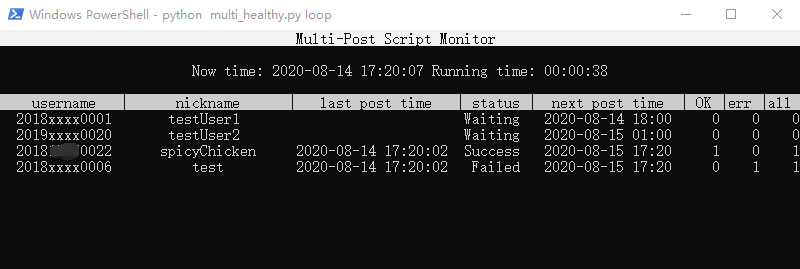
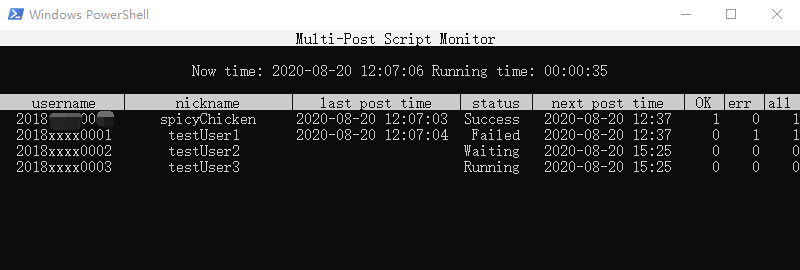
修改了下源代码, 版本更新为1.0.3, 无重大更新

diff --git a/multi_healthy.py b/multi_healthy.py
@@ -2,11 +2,11 @@
 
 import time, os, inspect, random, threading, sys, json, copy
 
-__file_version__ = "1.0.2"
-__file_version_tuple__ = (1, 0, 2)
+__file_version__ = "1.0.3"
+__file_version_tuple__ = (1, 0, 3)
 __license__ = "MIT"
 __author__ = "Happy-Rabbit"
-__last_update_date__ = "2020/08/19"
+__last_update_date__ = "2020/08/20"
 
 username    :str    =   ''
 password    :str    =   ''
@@ -18,6 +18,7 @@ userData    :dict   =   {"username":    username,
                          'lt':          '',
                          'execution':   ''}
 userDataList:list   =   []
+retryList   :list   =   []
 
 configFormat:dict   =   {"username":    '',
                          "password":    '',
@@ -291,7 +292,7 @@ class AutoLogin():
             return self.run(retry - 1)
         except Exception as e:
             warn(repr(e))
-            if retry < 0:
+            if retry == 0:
                 error("Max Retried times!")
                 return False
             warn("Retry times: {}".format(3 - retry + 1))
@@ -317,6 +318,7 @@ class UserClass():
             self.postTime.sort()
             self.timecost = 0
             self.lastResult = ''
+            self.nextTime = ''
             
         except Exception as e:
             error(repr(e))
@@ -324,15 +326,16 @@ class UserClass():
             exit(0)
     
     def status(self) -> str:
+        if self.runLock:
+            return "Running"
         if self.lastResult:
             return self.lastResult
         else:
-            if self.runLock:
-                return "Running"
-            else:
-                return "Waiting"
+            return "Waiting"
     
     def getNextTime(self):
+        if self.nextTime != '':
+            return self.nextTime
         for i in self.postTime:
             if time.strftime("%H:%M", time.localtime()) < i:
                 return time.strftime("%Y-%m-%d ", time.localtime()) + i
@@ -476,16 +479,25 @@ def echoInfo(stdscr):
         error(repr(e))
 
 def runAll(targetList: list) -> None:
+    global retryList
     try:
         for i in targetList:
-            i.run()
+            result = i.run()
+            if not result:
+                i.nextTime = time.strftime("%Y-%m-%d %H:%M", time.localtime(time.time() + 30 * 60))
+                retryList.append((time.strftime("%H:%M", time.localtime(time.time() + 30 * 60)), i))
+                continue
+            i.nextTime = ''
     except Exception as e:
         error(repr(e))
 
 def timeManager():
-    global userDataList
+    global userDataList, retryList
     timeList = []
+    retryTimes = []
+    retryDict = {}
     last = ''
+    retryLast = ''
     for i in userDataList:
         for j in i.postTime:
             timeList.append(j)
@@ -496,6 +508,14 @@ def timeManager():
             timeDict[j].append(i)
     while True:
         now = time.strftime("%H:%M", time.localtime())
+        if retryList:
+            retryTimes = list(set(i[0] for i in retryList))
+            retryDict = {i:[j[1] for j in retryList if j[0] == i] for i in retryTimes}
+        if now in retryDict.keys() and now != retryLast:
+            retryLast = now
+            thread = threading.Thread(target=runAll, args=(retryDict[now], ))
+            thread.setDaemon(True)
+            thread.start()
         if now in timeDict.keys() and now != last:
             last = now
             thread = threading.Thread(target=runAll, args=(timeDict[now], ))

diff --git a/versions.md b/versions.md
@@ -1,16 +1,35 @@
 ## 版本信息
 
-### 当前最新版本为 1.0.2
+### 当前最新版本为 1.0.3
 
 [![](https://img.shields.io/badge/-return%20to%20README.md-blueviolet)](README.md "返回README.md")
+
+### 1.0.3 更新内容
+
+项目 |内容
+:--: |:--:
+更新日期 | 2020年8月20日
+是否有重大更新 | ![否](https://img.shields.io/badge/-no-informational "否")
+版本状态 | ![最新](https://img.shields.io/badge/-newest-brightgreen "最新")
+
+**更新内容**:
+
+- 新增请求失败半小时后自动重试功能
+- 调整了部分代码
+
+**此版本的重要变量**: 
+
+> 和[1.0.1版本](#1-0-1)的[变量](#1-0-1-vars)一致
+
+---
 
 ### 1.0.2 更新内容
 
 项目 |内容
 :--: |:--:
 更新日期 | 2020年8月19日
-是否有重大更新 | ![](https://img.shields.io/badge/-no-informational "否")
-版本状态 | ![](https://img.shields.io/badge/-newest-brightgreen "最新")
+是否有重大更新 | ![否](https://img.shields.io/badge/-no-informational "否")
+版本状态 | ![旧版](https://img.shields.io/badge/-old-informational "旧版")
 
 **更新内容**:
 
@@ -20,7 +39,7 @@
   - 被定义为一种异常
 - 调整了一下部分log的输出顺序和重试终止次数
 
-**此版本的变量**: 
+**此版本的重要变量**: 
 
 > 和[上一版本](#1-0-1)的[变量](#1-0-1-vars)一致
 
@@ -33,8 +52,8 @@
 项目 |内容
 :--: |:--:
 更新日期 | 2020年8月18日
-是否有重大更新 | ![](https://img.shields.io/badge/-yes-important "是")
-版本状态 | ![](https://img.shields.io/badge/-newest-brightgreen "最新")
+是否有重大更新 | ![是](https://img.shields.io/badge/-yes-important "是")
+版本状态 | ![旧版](https://img.shields.io/badge/-old-informational "旧版")
 
 **更新内容**:
 
@@ -45,7 +64,7 @@
   - 而且也没有显示验证码的代码
   - **大概**下个版本会追加显示验证码的功能 ~~(**大概**)~~
 
-<span id="1-0-1-vars">**此版本的变量**:</span>
+<span id="1-0-1-vars">**此版本的重要变量**:</span>
 
 静态变量 | 内容
 :--: | :--:
@@ -80,8 +99,8 @@ config文件名 | `daily_health.json`
 项目 |内容
 :--: |:--:
 更新日期 | 2020年8月18日
-是否有重大更新 | ![](https://img.shields.io/badge/-yes-important "是")
-版本状态 | ![](https://img.shields.io/badge/-out%20of%20date-inactive "过时")
+是否有重大更新 | ![是](https://img.shields.io/badge/-yes-important "是")
+版本状态 | ![过时](https://img.shields.io/badge/-out%20of%20date-inactive "过时")
 
 **更新内容**:
 
@@ -90,7 +109,7 @@ config文件名 | `daily_health.json`
 - [x] 较为详尽的log输出
 - [x] 文件内加入版本号, 方便查看
 
-**此版本的变量**:
+**此版本的重要变量**:
 
 静态变量 | 内容
 :--: | :--:

diff --git a/README.md b/README.md
@@ -6,7 +6,7 @@ NUIST 健康日报填报脚本(多用户版)
 
 ### 版本信息
 
-[![](https://img.shields.io/badge/当前最新版本-1.0.2-blueviolet)](versions.md "前往版本更新页面")
+[![](https://img.shields.io/badge/当前最新版本-1.0.3-blueviolet)](versions.md "前往版本更新页面")
 
 ![](https://img.shields.io/badge/相较于上个版本-无重大更新-informational)
 
@@ -49,7 +49,7 @@ curses              | 2.2.1+utf8|必备   | 多用户显示, 如果不让使用c
     - 安装: `python -m pip install <whl文件路径>`
     - 例如:
 ![安装](pics/1.png "Install")
-    - 安装完成后尝试执行`python -c "import curses"`, 如果没有错误等, 证明安装成功. <font color=#bbbbbb>(大概成功了吧...)</font>
+    - 安装完成后尝试执行`python -c "import curses"`, 如果没有错误等, 证明安装成功. (大概成功了吧...)
     - (备份了一份放在了[curses](./curses)文件夹里)
 
 ### 目前的功能
@@ -63,6 +63,7 @@ curses              | 2.2.1+utf8|必备   | 多用户显示, 如果不让使用c
 - [x] 运行时长和当前时间一同显示
 - [x] 显示下次提交时间
 - [x] 用户备注(昵称, 只允许ASCII字符, 20字符以内)
+- [x] 失败后自动重试(单次运行自动重试4次, 4次失败自动推迟30分钟)
 
 文件所在位置:
 - [x] log文件在用户目录下的pyLogs里的auto_commit_multi_healthy.log
@@ -83,7 +84,7 @@ curses              | 2.2.1+utf8|必备   | 多用户显示, 如果不让使用c
 
 ![生成后的配置文件](pics/3.png "generated config file.")
 
-如果想要修改和删除用户信息... 只能自己修改配置文件了... ~~<font color=#bbbbbb>(对不起我太懒了orz)</font>~~
+如果想要修改和删除用户信息... 只能自己修改配置文件了... ~~(对不起我太懒了orz)~~
 
 #### 启动程序
 
@@ -121,4 +122,4 @@ curses              | 2.2.1+utf8|必备   | 多用户显示, 如果不让使用c
 
 如果有些设备没办法安装`curses`, 建议自己去找一下安装教程, 或者... 使用单用户版的吧(
 
-**开发者并不建议使用脚本, 最好还是自己去填. ~~<font color=#aaaaaa>只是我太懒了所以才写的脚本...</font>~~**
+**开发者并不建议使用脚本, 最好还是自己去填. ~~只是我太懒了所以才写的脚本...~~**
